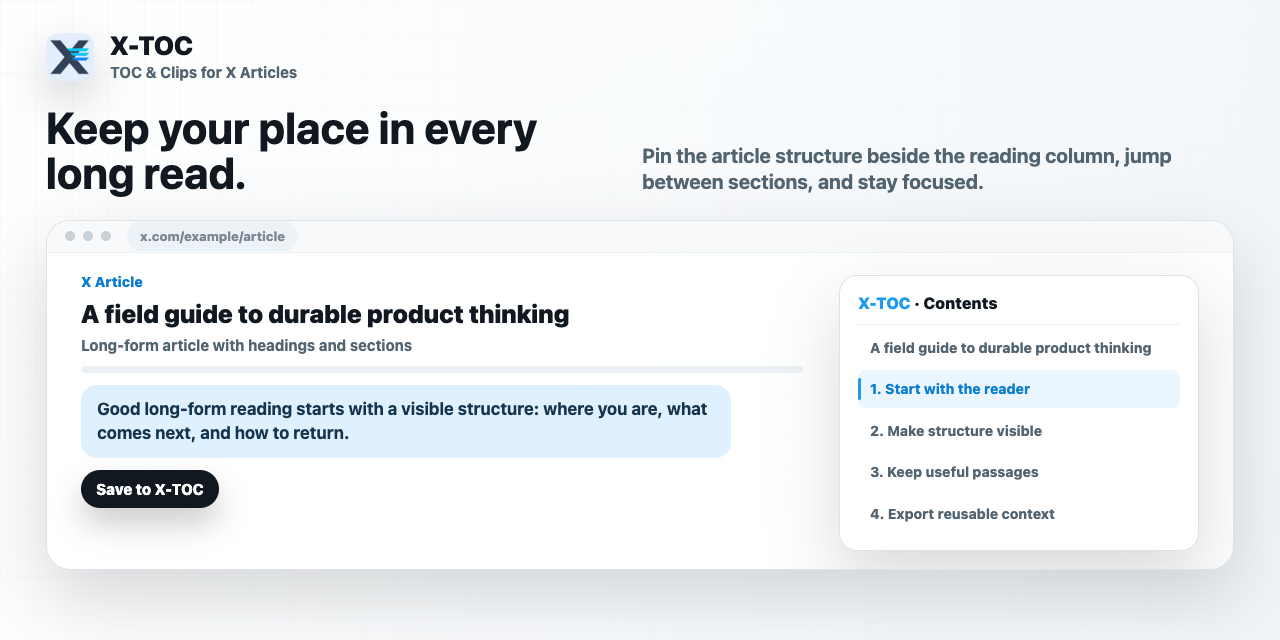
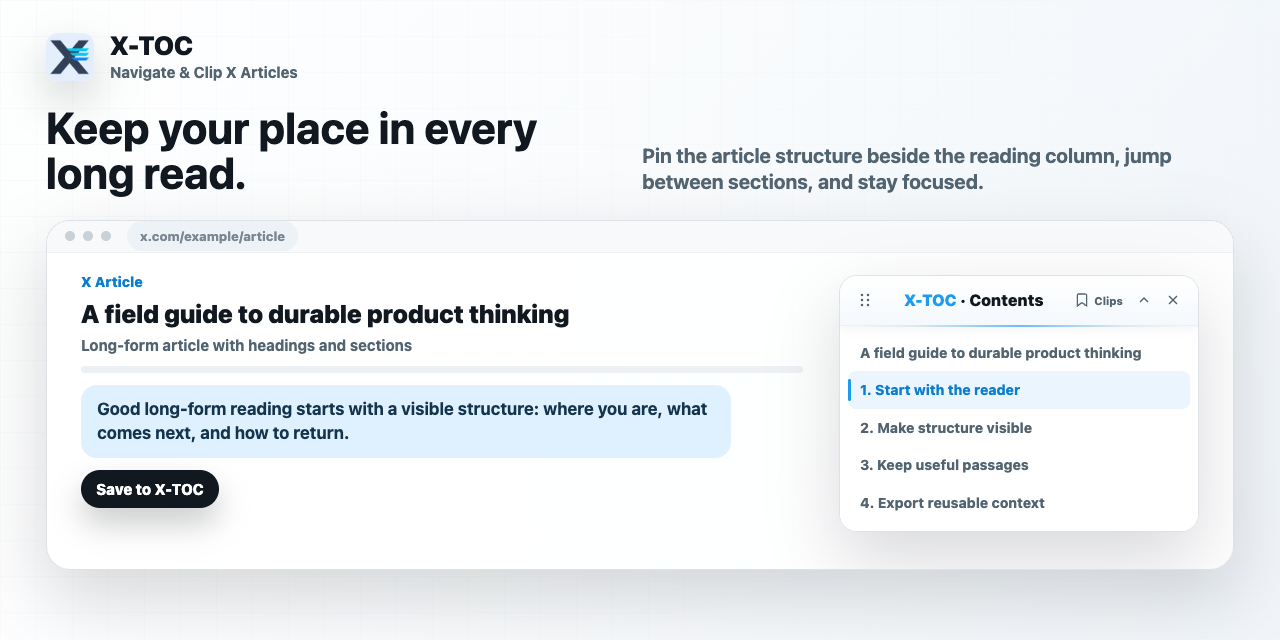
feat: refresh X-TOC 0.5.0 website content

diff --git a/src/app/page.tsx b/src/app/page.tsx
@@ -8,9 +8,9 @@ const websiteRepoUrl = "https://github.com/HiAriesZhou/x-toc-landing-page";
 const projectStoryUrl = "https://www.arieszhou.com/projects/x-toc";
 
 const workflow = [
-  { number: "01", icon: BookOpenText, title: "See the shape of the article.", body: "Open the popup or pin the movable contents panel beside the article. Jump to any detected heading without losing the reading thread." },
+  { number: "01", icon: BookOpenText, title: "See the shape of the article.", body: "Open the popup or pin the collapsible contents panel beside the article. Jump to any detected heading, then move or resize the panel to fit your reading space." },
   { number: "02", icon: Highlighter, title: "Keep a passage with context.", body: "Select text and choose Save to X-TOC. The clip keeps its article, author when available, timestamp, and surrounding text." },
-  { number: "03", icon: Library, title: "Find it and take it with you.", body: "Open Saved clips to search by text, title, author, tag, or note. Export selected clips or the full library as Markdown or JSON." },
+  { number: "03", icon: Library, title: "Find it and take it with you.", body: "Open Saved clips from the popup or pinned panel. Search by text, title, author, tag, or note, then export selected clips or the full library as Markdown or JSON." },
 ];
 
 export default function HomePage() {
@@ -53,13 +53,13 @@ export default function HomePage() {
                 <span className="browser-address">X Article + X-TOC</span>
                 <span className="browser-note">Chrome Web Store preview</span>
               </div>
-              <Image src="/screenshots/chrome-store-screenshot-1280x800.png" alt="X-TOC keeping an article outline beside a long X article and offering a local Save to X-TOC action" width={1280} height={800} className="store-screenshot" priority />
+              <Image src="/screenshots/chrome-store-screenshot-1280x800.png" alt="X-TOC keeping a collapsible article outline beside a long X article and offering a local Save to X-TOC action" width={1280} height={800} className="store-screenshot" priority />
             </div>
           </div>
         </section>
 
         <section className="proof-strip" aria-label="Supported workflow">
-          <div className="site-shell proof-grid"><span>X.com and Twitter.com articles</span><span>Popup and floating contents</span><span>Markdown and JSON export</span></div>
+          <div className="site-shell proof-grid"><span>X.com and Twitter.com articles</span><span>Popup and pinned contents</span><span>Markdown and JSON export</span></div>
         </section>
 
         <section className="workflow-section">

diff --git a/src/app/docs/page.tsx b/src/app/docs/page.tsx
@@ -14,9 +14,9 @@ export const metadata: Metadata = {
 
 const steps = [
   { icon: BookOpenText, title: "1. Open a supported article", body: "Visit a long-form article on X.com or Twitter.com. X-TOC detects headings when the article provides them." },
-  { icon: BookOpenText, title: "2. Navigate its headings", body: "Open the extension popup for the current outline. Pin the floating contents panel when you want the structure beside the article; drag or resize it to fit your reading space." },
+  { icon: BookOpenText, title: "2. Navigate its headings", body: "Open the extension popup for the current outline. Pin the collapsible contents panel when you want the structure beside the article; drag or resize it to fit your reading space." },
   { icon: Highlighter, title: "3. Save a passage", body: "Select useful article text and choose Save to X-TOC. The passage is stored with its article, timestamp, surrounding context, and author when available." },
-  { icon: Library, title: "4. Open Saved clips", body: "Choose Saved clips in the extension popup. Search your library, add tags or notes, delete clips, and select the passages you want to export." },
+  { icon: Library, title: "4. Open Saved clips", body: "Choose Saved clips in the extension popup or pinned contents panel. Search your library, add tags or notes, delete clips, and select the passages you want to export." },
 ];
 
 export default function DocsPage() {

diff --git a/src/app/layout.tsx b/src/app/layout.tsx
@@ -19,14 +19,14 @@ export const metadata: Metadata = {
       width: 1280,
       height: 640,
       type: "image/png",
-      alt: "X-TOC demo: navigate an article with a floating table of contents and save selected passages locally.",
+      alt: "X-TOC demo: navigate an article with a collapsible pinned table of contents and save selected passages locally.",
     }],
   },
   twitter: {
     card: "summary_large_image",
     images: [{
       url: "/images/x-toc-social-1280x640.png",
-      alt: "X-TOC demo: navigate an article with a floating table of contents and save selected passages locally.",
+      alt: "X-TOC demo: navigate an article with a collapsible pinned table of contents and save selected passages locally.",
     }],
     title: "X-TOC | Navigate and Clip X Articles",
     description: "Keep article structure visible. Save useful passages locally.",
